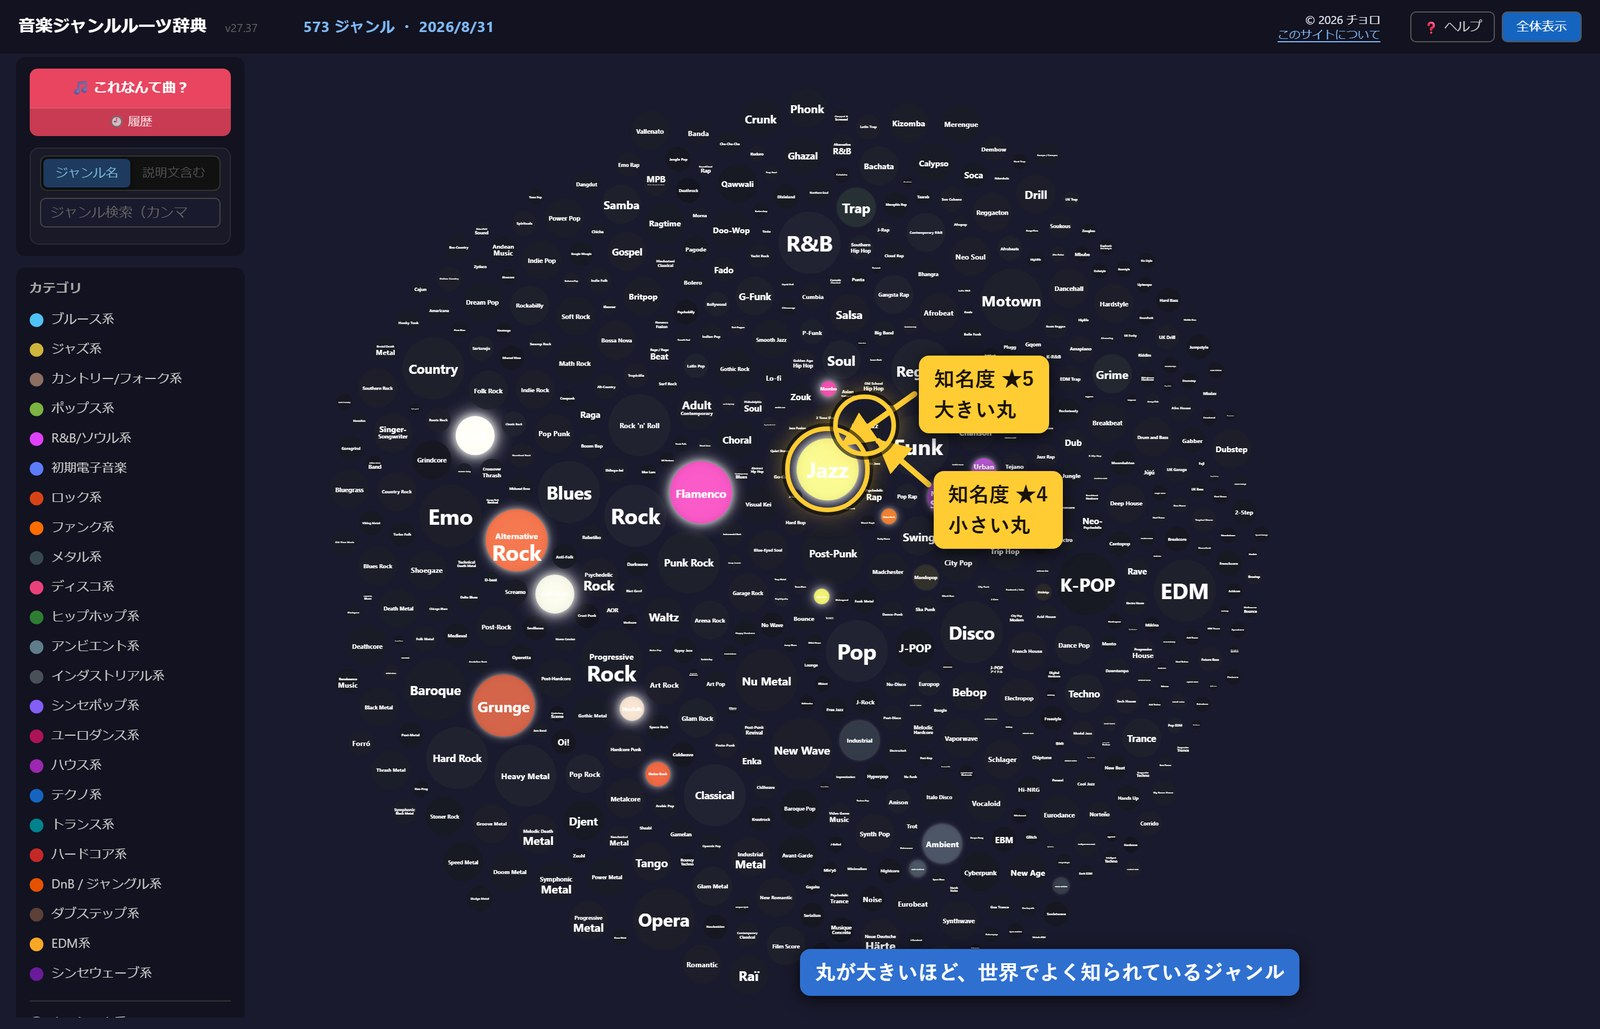
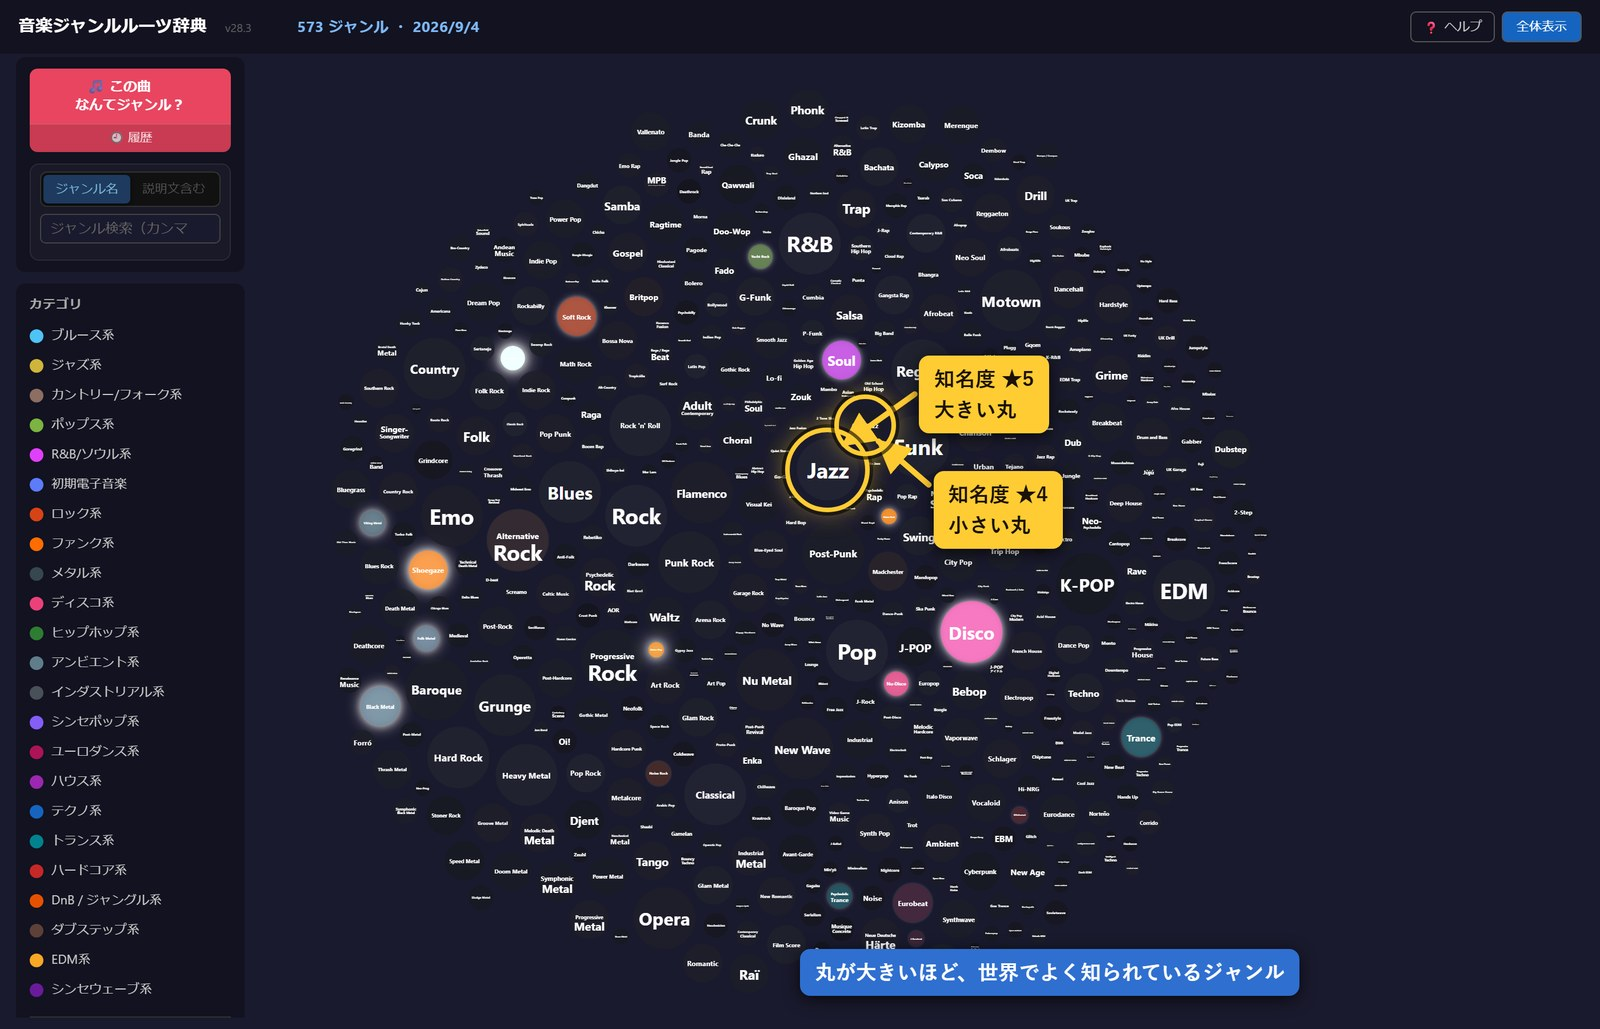
ヘルプの図36枚を撮り直し（ヘッダー整理・ボタン名変更・v28.3に合わせて）
・「これなんて曲？」→「この曲なんてジャンル？」のボタン名変更(4枚)、
  ヘッダーから著作権表示が消えたこと、v28.3・573ジャンルへの更新を反映
・撮影中に見つけた不具合を修正：fig01の吹き出しに「ヘルプ・全体表示・
  このサイトについて」という固定文言が残っていたが、「このサイトに
  ついて」ボタンは2026-09-04にヘッダーから削除済みのため、実際の画面と
  食い違っていた。make_figs.jsの文言を「ヘルプ・全体表示」に修正して
  撮り直し
・4枚を目視で確認（fig01・sp03・pcmic1・sp13・kakunin1）。ヘッダー・
  ボタン名・版表示とも実際の画面と一致

diff --git a/tools/figs/make_figs.js b/tools/figs/make_figs.js
@@ -127,7 +127,7 @@ const 撮る = async (p, 名) => {
     }
     if (測.ヘルプ && 測.全体) {
       it.push({ type: 'box', rect: { x: 測.ヘルプ.x - 5, y: 測.ヘルプ.y - 5, w: (1400 - 12) - 測.ヘルプ.x + 5, h: 測.ヘルプ.h + 10 } });
-      it.push({ type: 'tag', text: 'ヘルプ・全体表示・このサイトについて', x: 測.ヘルプ.x - 330, y: 測.ヘルプ.y + 46 });
+      it.push({ type: 'tag', text: 'ヘルプ・全体表示', x: 測.ヘルプ.x - 330, y: 測.ヘルプ.y + 46 });
       it.push({ type: 'arrow', pts: [測.ヘルプ.x - 40, 測.ヘルプ.y + 52, 測.ヘルプ.x + 10, 測.ヘルプ.y + 34] });
     }
     it.push({ type: 'tag', text: 'ここが地図。丸ひとつが1ジャンル', x: 760, y: 130, blue: true });
